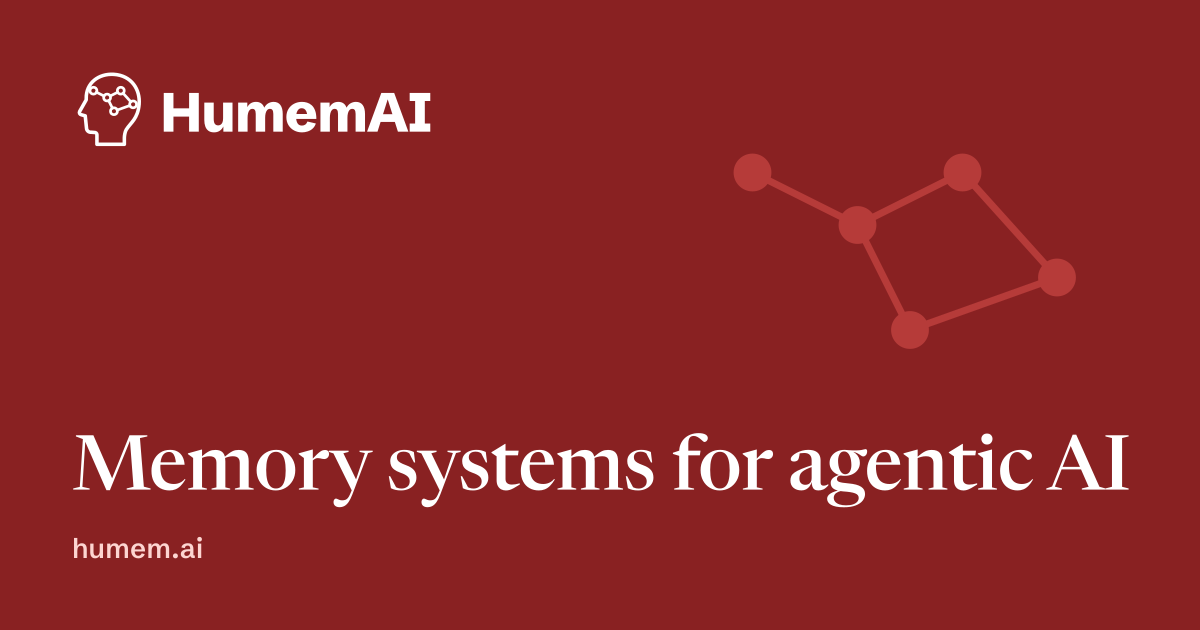
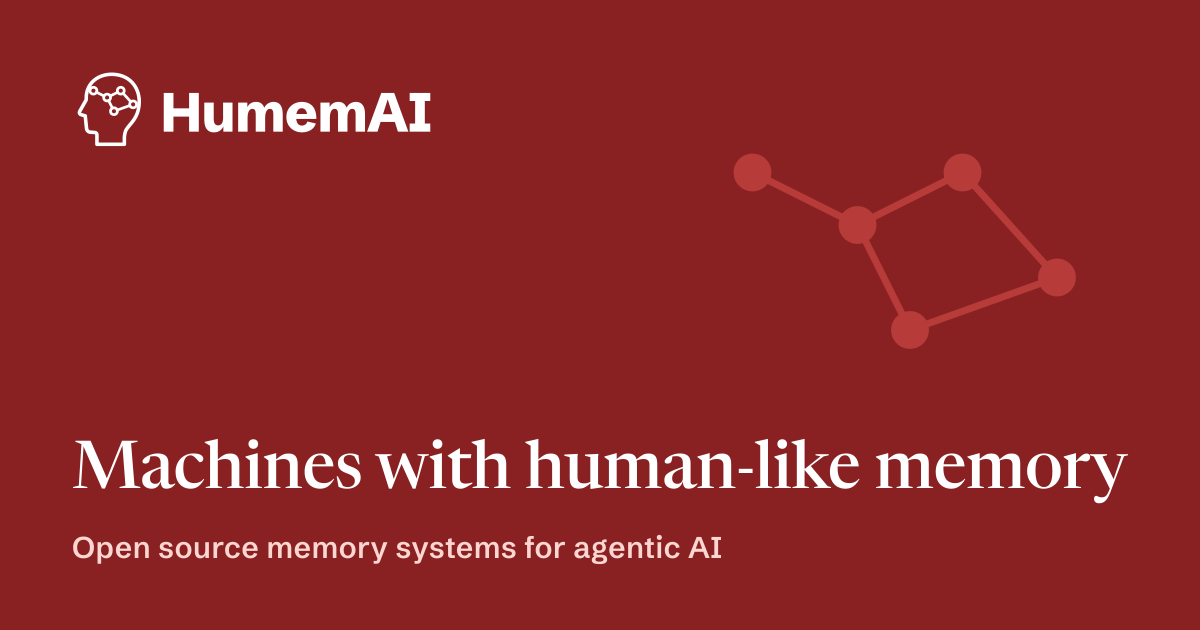
Link card: the tagline and the descriptor
Re-vendors design-system f5c5fd3, whose og-1200x630.png leads with
'Machines with human-like memory' over 'Open source memory systems for agentic
AI', and matches the card's alt text. Build and spacing check pass.

Claude-Session: https://claude.ai/code/session_01NP8HhLjigE2uTnpJz2GHtT

Changed region(s): [[0.0617, 0.6937, 0.9558, 0.8143], [0.0617, 0.8444, 0.6167, 0.9048]]

diff --git a/src/app/layout.tsx b/src/app/layout.tsx
@@ -44,7 +44,7 @@ export const metadata: Metadata = {
         url: "/brand/export/og-1200x630.png",
         width: 1200,
         height: 630,
-        alt: "HumemAI: memory systems for agentic AI",
+        alt: "HumemAI: machines with human-like memory. Open source memory systems for agentic AI.",
       },
     ],
     locale: "en_US",

diff --git a/public/brand/VERSION.md b/public/brand/VERSION.md
@@ -3,6 +3,6 @@
 Do not edit these files here. Change them in github.com/humemai/design-system,
 then vendor again. `./verify.sh` checks this copy against the hash below.
 
-Commit: dc1748e8817c560b8a4cc503d140bd1148b0214d
+Commit: f5c5fd3af834294787b6150146895043a9ec172c
 Date: 2026-09-27
-Hash: c412bc764285b43e223c172a25bdff12d2550b31ddbcf7598f166b8d1a2466cc
+Hash: c79ccf024c5572be9a0475cd8d40c7507aa85891d594cc8041e42d343b9e9037
